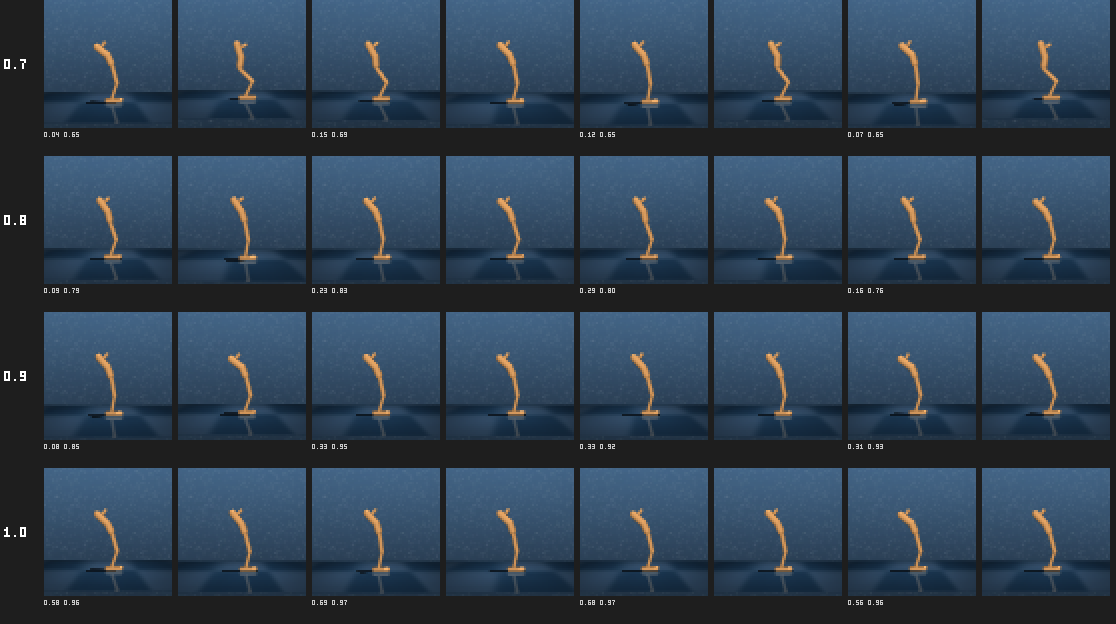
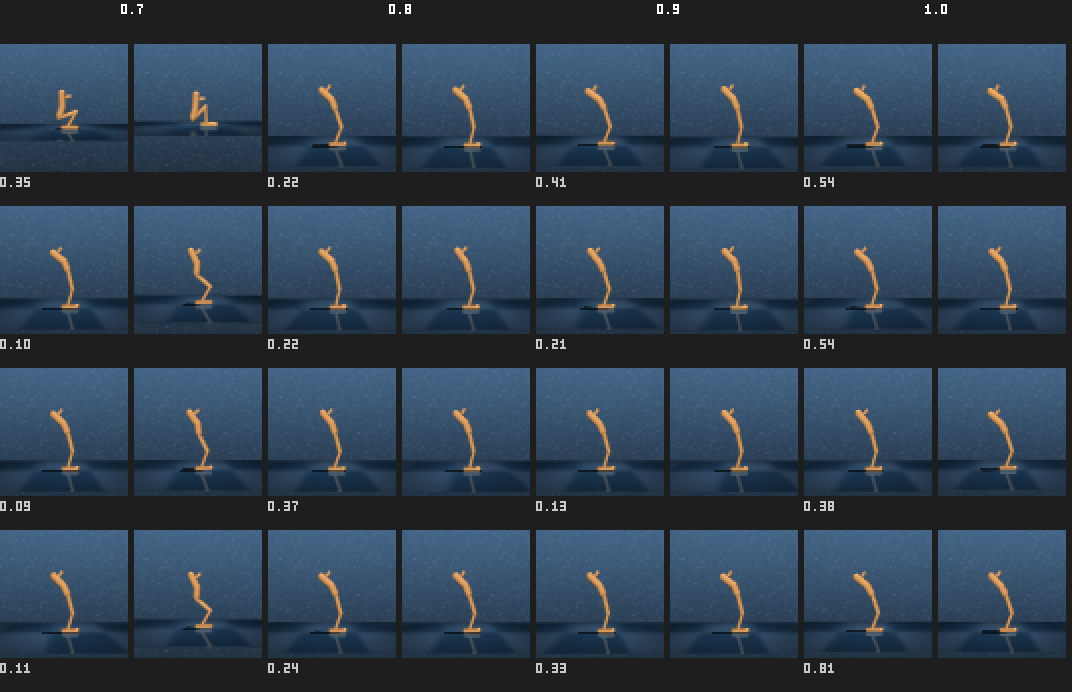
goal-image-pairs grids: transpose to columns, bigger single-value labels
build_grid() now lays out one COLUMN per similarity bin (left to right,
ascending 0.2..1.0 for panel A / 0.7..1.0 for panel B) with pair-blocks
stacked vertically within each column, instead of one row per bin. Column
header replaces the left-margin row label.

Per-pair label is now a single, larger (2x) number instead of two small
ones: only the OPPOSING similarity, not the one the column axis already
encodes (goal-state sim under panel A's code-similarity columns, soft-code
sim under panel B's goal-state-similarity columns) -- the axis position
already says the other number, so repeating it was redundant clutter.

Regenerated all 4 PNGs (director + som_lipvq_line_prod, hard + soft, hopper
stand). Confirms the earlier reading is easier to read this way: e538's hard
panel now shows column 0.2 empty (no pair in the pool reaches that little
code similarity) and columns 0.3-0.5 mixing genuinely low (0.09-0.6)
goal-state similarities with the occasional near-1.0 one, vs. columns
0.7-1.0 consistently 0.9+.

diff --git a/experiments/goal_geometry/make_goal_image_pairs.py b/experiments/goal_geometry/make_goal_image_pairs.py
@@ -213,25 +213,27 @@ def pick_pairs_binned(sim, targets, n_per_bin, rng, half_width=0.05):
 
 # ------------------------------------------------------------------ layout
 
-def build_grid(rows, cell_w, cell_h, margin_w, gap, bg=(30, 30, 30)):
-  """``rows``: list of lists of (img_i, img_j, label) tiles, one list per bin
-  row. Lays out a left label margin + one pair-block per sample, each
-  pair-block = img_i | small gap | img_j, with the similarity value stamped
-  underneath."""
-  n_cols = max((len(tiles) for _, tiles in rows), default=0)
+def build_grid(cols, cell_w, cell_h, margin_top, gap, bg=(30, 30, 30)):
+  """``cols``: list of (col_label, tiles), one entry per similarity bin, IN
+  THE ORDER THE CALLER WANTS LEFT TO RIGHT (ascending bin value). Lays out a
+  top label strip per column + one pair-block per sample stacked vertically
+  within that column, each pair-block = img_i | small gap | img_j, with the
+  OPPOSING similarity (not the one the column axis already encodes)
+  stamped underneath."""
+  n_rows = max((len(tiles) for _, tiles in cols), default=0)
   pair_w = 2 * cell_w + gap
-  row_h = cell_h + 22
-  W = margin_w + n_cols * (pair_w + gap)
-  H = len(rows) * (row_h + gap)
+  row_h = cell_h + 28
+  W = len(cols) * (pair_w + gap)
+  H = margin_top + n_rows * (row_h + gap)
   canvas = np.full((H, W, 3), bg, np.uint8)
-  for r, (row_label, tiles) in enumerate(rows):
-    y0 = r * (row_h + gap)
-    stamp_text(canvas, 4, y0 + cell_h // 2 - 5, row_label, (255, 255, 255), 2)
-    for c, (img_i, img_j, label) in enumerate(tiles):
-      x0 = margin_w + c * (pair_w + gap)
+  for c, (col_label, tiles) in enumerate(cols):
+    x0 = c * (pair_w + gap)
+    stamp_text(canvas, x0 + pair_w // 2 - 10, 4, col_label, (255, 255, 255), 2)
+    for r, (img_i, img_j, label) in enumerate(tiles):
+      y0 = margin_top + r * (row_h + gap)
       canvas[y0:y0 + cell_h, x0:x0 + cell_w] = img_i
       canvas[y0:y0 + cell_h, x0 + cell_w + gap:x0 + cell_w + gap + cell_w] = img_j
-      stamp_text(canvas, x0, y0 + cell_h + 4, label, (200, 200, 200), 1)
+      stamp_text(canvas, x0, y0 + cell_h + 5, label, (200, 200, 200), 2)
   return canvas
 
 
@@ -278,8 +280,9 @@ def run(run_dir, out_prefix, ckpt_path=None, n_envs=8, stride=8, n_states=512,
   def upsample(imgs):
     return np.repeat(np.repeat(imgs, UPSAMPLE, 1), UPSAMPLE, 2)
 
-  # --- Panel A: hard code, full range 1.0 .. 0.2, decode through the code.
-  targets_a = [round(1.0 - 0.1 * k, 2) for k in range(9)]
+  # --- Panel A: hard code, full range 0.2 .. 1.0 left to right, decode
+  # through the code.
+  targets_a = [round(0.2 + 0.1 * k, 2) for k in range(9)]
   if som_on:
     # sim_hard is graded/continuous here (steps of 1/(L*(classes-1))); use a
     # tolerance window per target instead of snapping to a handful of levels.
@@ -291,15 +294,17 @@ def run(run_dir, out_prefix, ckpt_path=None, n_envs=8, stride=8, n_states=512,
               pick_pairs_hard(sim_hard, targets_a, n_per_bin, rng)]
   goal_a = upsample(image(decode(onehot)))  # decode every code once, index below
   CH, CW = goal_a.shape[1:3]
-  rows_a = []
+  cols_a = []
   for t, pairs in bins_a:
     tiles = []
     for i, j in pairs:
-      tiles.append((goal_a[i], goal_a[j],
-                     f'{sim_hard[i, j]:.2f} {sim_goal[i, j]:.2f}'))
-    rows_a.append((f'{t:.1f}', tiles))
+      # Column axis is code similarity; the label is the OPPOSING number
+      # (goal-space similarity) only -- the code similarity is what the
+      # column position already says.
+      tiles.append((goal_a[i], goal_a[j], f'{sim_goal[i, j]:.2f}'))
+    cols_a.append((f'{t:.1f}', tiles))
     print(f'  [A hard] target={t:.2f} n_pairs={len(pairs)}')
-  canvas_a = build_grid(rows_a, CW, CH, MARGIN, GAP)
+  canvas_a = build_grid(cols_a, CW, CH, MARGIN, GAP)
   path_a = f'{out_prefix}_hard.png'
   write_png(path_a, canvas_a)
   print(f'wrote {path_a}  ({canvas_a.shape[1]}x{canvas_a.shape[0]})')
@@ -308,15 +313,16 @@ def run(run_dir, out_prefix, ckpt_path=None, n_envs=8, stride=8, n_states=512,
   targets_b = [0.7, 0.8, 0.9, 1.0]
   bins_b = pick_pairs_binned(sim_goal, targets_b, n_per_bin, rng, half_width=0.05)
   goal_b = upsample(image(decode(soft)))  # soft (pre-sample) code, through goal_dec
-  rows_b = []
+  cols_b = []
   for t, pairs in bins_b:
     tiles = []
     for i, j in pairs:
-      tiles.append((goal_b[i], goal_b[j],
-                     f'{sim_soft[i, j]:.2f} {sim_goal[i, j]:.2f}'))
-    rows_b.append((f'{t:.1f}', tiles))
+      # Column axis is goal-space similarity; the label is the OPPOSING
+      # number (soft-code similarity) only.
+      tiles.append((goal_b[i], goal_b[j], f'{sim_soft[i, j]:.2f}'))
+    cols_b.append((f'{t:.1f}', tiles))
     print(f'  [B soft] goal-sim~={t:.2f} n_pairs={len(pairs)}')
-  canvas_b = build_grid(rows_b, CW, CH, MARGIN, GAP)
+  canvas_b = build_grid(cols_b, CW, CH, MARGIN, GAP)
   path_b = f'{out_prefix}_soft.png'
   write_png(path_b, canvas_b)
   print(f'wrote {path_b}  ({canvas_b.shape[1]}x{canvas_b.shape[0]})')
@@ -325,10 +331,12 @@ def run(run_dir, out_prefix, ckpt_path=None, n_envs=8, stride=8, n_states=512,
   readme.write_text(
       f'{name}  impl={impl}  task={config.task}  hard_metric={hard_metric}\n\n'
       f'{path_a.rsplit("/", 1)[-1]} -- panel A, HARD code, full range.\n'
-      '  One row per target code-similarity (left margin: 1.0..0.2). Each\n'
-      '  pair-block is two goal IMAGES decoded from two DIFFERENT codes whose\n'
-      '  hard-code similarity falls in that row.\n'
-      '  Label under each pair: "<actual code sim> <true goal-state sim>".\n'
+      '  One column per target code-similarity, left to right 0.2..1.0. Each\n'
+      '  pair-block (stacked within its column) is two goal IMAGES decoded\n'
+      '  from two DIFFERENT codes whose hard-code similarity falls in that\n'
+      '  column. Label under each pair is the OPPOSING number only -- the\n'
+      '  true goal-state similarity (column position already says the code\n'
+      '  similarity).\n'
       + ('  Metric: graded per-block index distance on the codebook\'s own\n'
          f'  {topology} topology (see block_distance_similarity) -- a\n'
          '  1-apart neighbor counts as a near-miss, not a full miss, because\n'
@@ -336,17 +344,18 @@ def run(run_dir, out_prefix, ckpt_path=None, n_envs=8, stride=8, n_states=512,
          if som_on else
          '  Metric: plain Hamming equality (same id per block or not) -- the\n'
          '  right metric for Director\'s unordered argmax labels.\n') +
-      '  If images still look near-identical at a low row (e.g. 0.2), that is\n'
-      '  code collapse (many dissimilar codes -> one goal), not subtlety.\n\n'
+      '  If images still look near-identical in a low column (e.g. 0.2), that\n'
+      '  is code collapse (many dissimilar codes -> one goal), not subtlety.\n\n'
       f'{path_b.rsplit("/", 1)[-1]} -- panel B, SOFT code, narrow range.\n'
       '  Pairs are restricted to states whose GOAL-SPACE (deter) cosine-max\n'
-      '  similarity is already in the row\'s band (0.7/0.8/0.9/1.0), i.e.\n'
-      '  states that were already close. Each pair-block decodes the two\n'
-      '  states\' SOFT (pre-sample) codes to images. Label: "<soft code sim>\n'
-      '  <true goal-state sim>". If code sim tracks goal sim smoothly within\n'
-      '  this narrow high band and the images show correspondingly small,\n'
-      '  real visual differences, that supports "codes track subtle changes"\n'
-      '  over "codes collapse".\n')
+      '  similarity is already in the column\'s band (0.7/0.8/0.9/1.0, left to\n'
+      '  right), i.e. states that were already close. Each pair-block decodes\n'
+      '  the two states\' SOFT (pre-sample) codes to images. Label under each\n'
+      '  pair is the OPPOSING number only -- the soft-code similarity (column\n'
+      '  position already says the goal-state similarity). If code sim tracks\n'
+      '  goal sim smoothly within this narrow high band and the images show\n'
+      '  correspondingly small, real visual differences, that supports "codes\n'
+      '  track subtle changes" over "codes collapse".\n')
   print(f'wrote {readme}')
 
 
